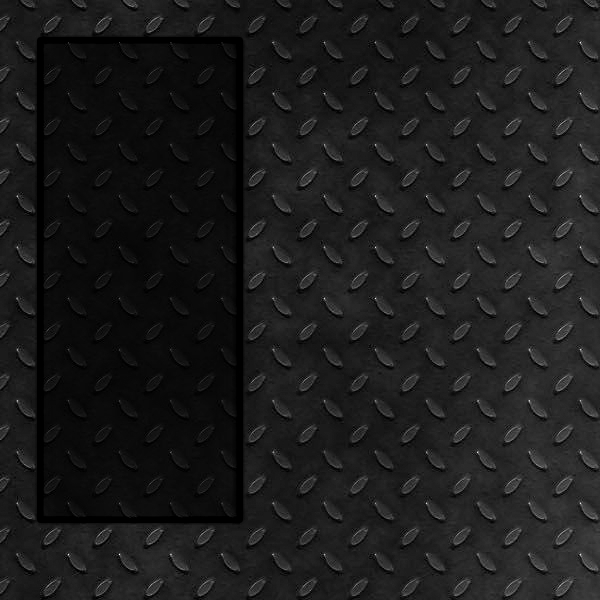
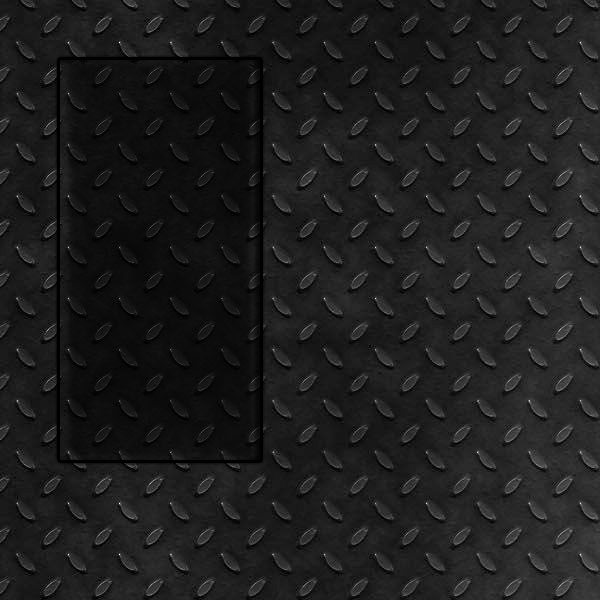
Switched to 60px border and replaced background

diff --git a/Tetris/Tetris/Common.cs b/Tetris/Tetris/Common.cs
@@ -9,8 +9,8 @@ namespace Tetris
     {
         static public int screenWidth = 600;
         static public int screenHeight = 600;
-        static public int boardStartX = 40; //The start position - in pixel - of the board for the Y axis
-        static public int boardStartY = 40; //The start position - in pixel - of the board for the Y axis
+        static public int boardStartX = 60; //The start position - in pixel - of the board for the Y axis
+        static public int boardStartY = 60; //The start position - in pixel - of the board for the Y axis
         static public int boardWidth = 200; //The width - in pixel - of the board for the Y axis
         static public int boardHeight = 480; //The height - in pixel - of the board for the Y axis
         static public int boardSizeX = 12; //The size - in case - of the board for the X axis
